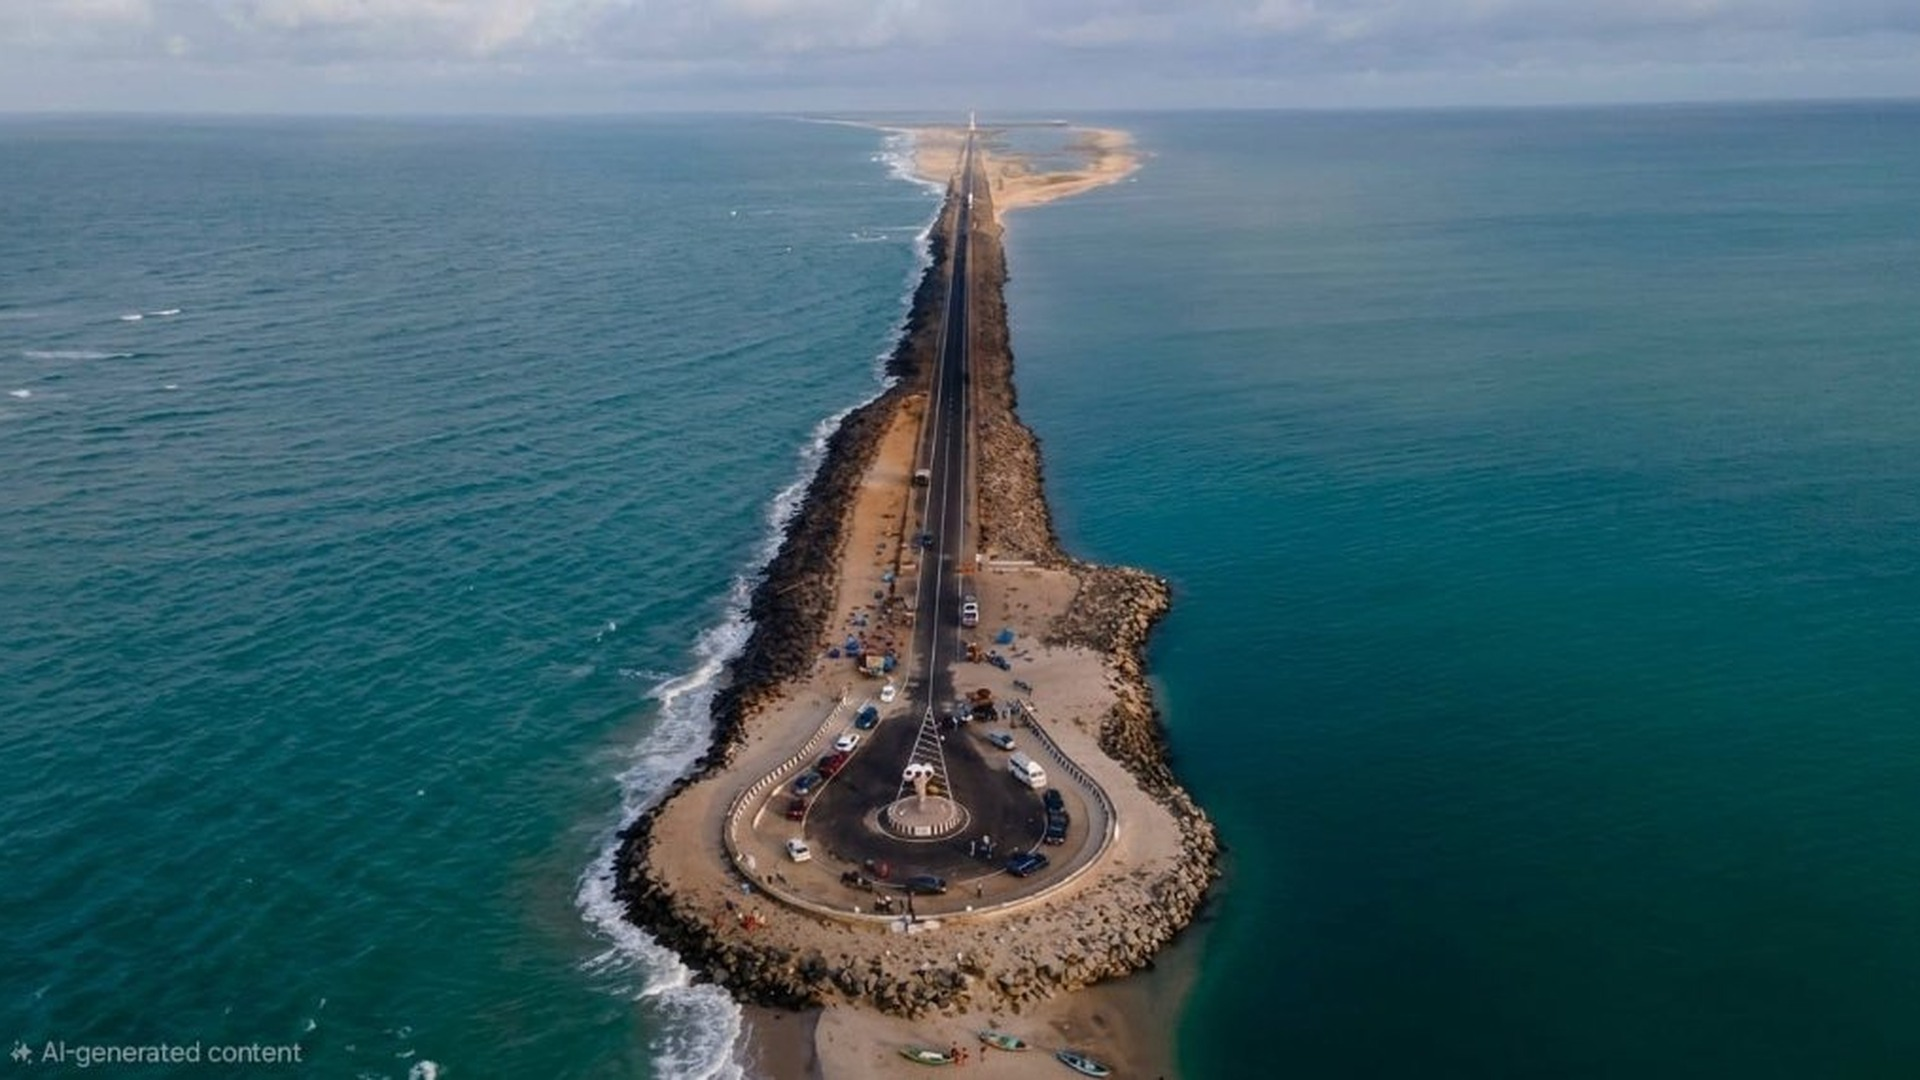
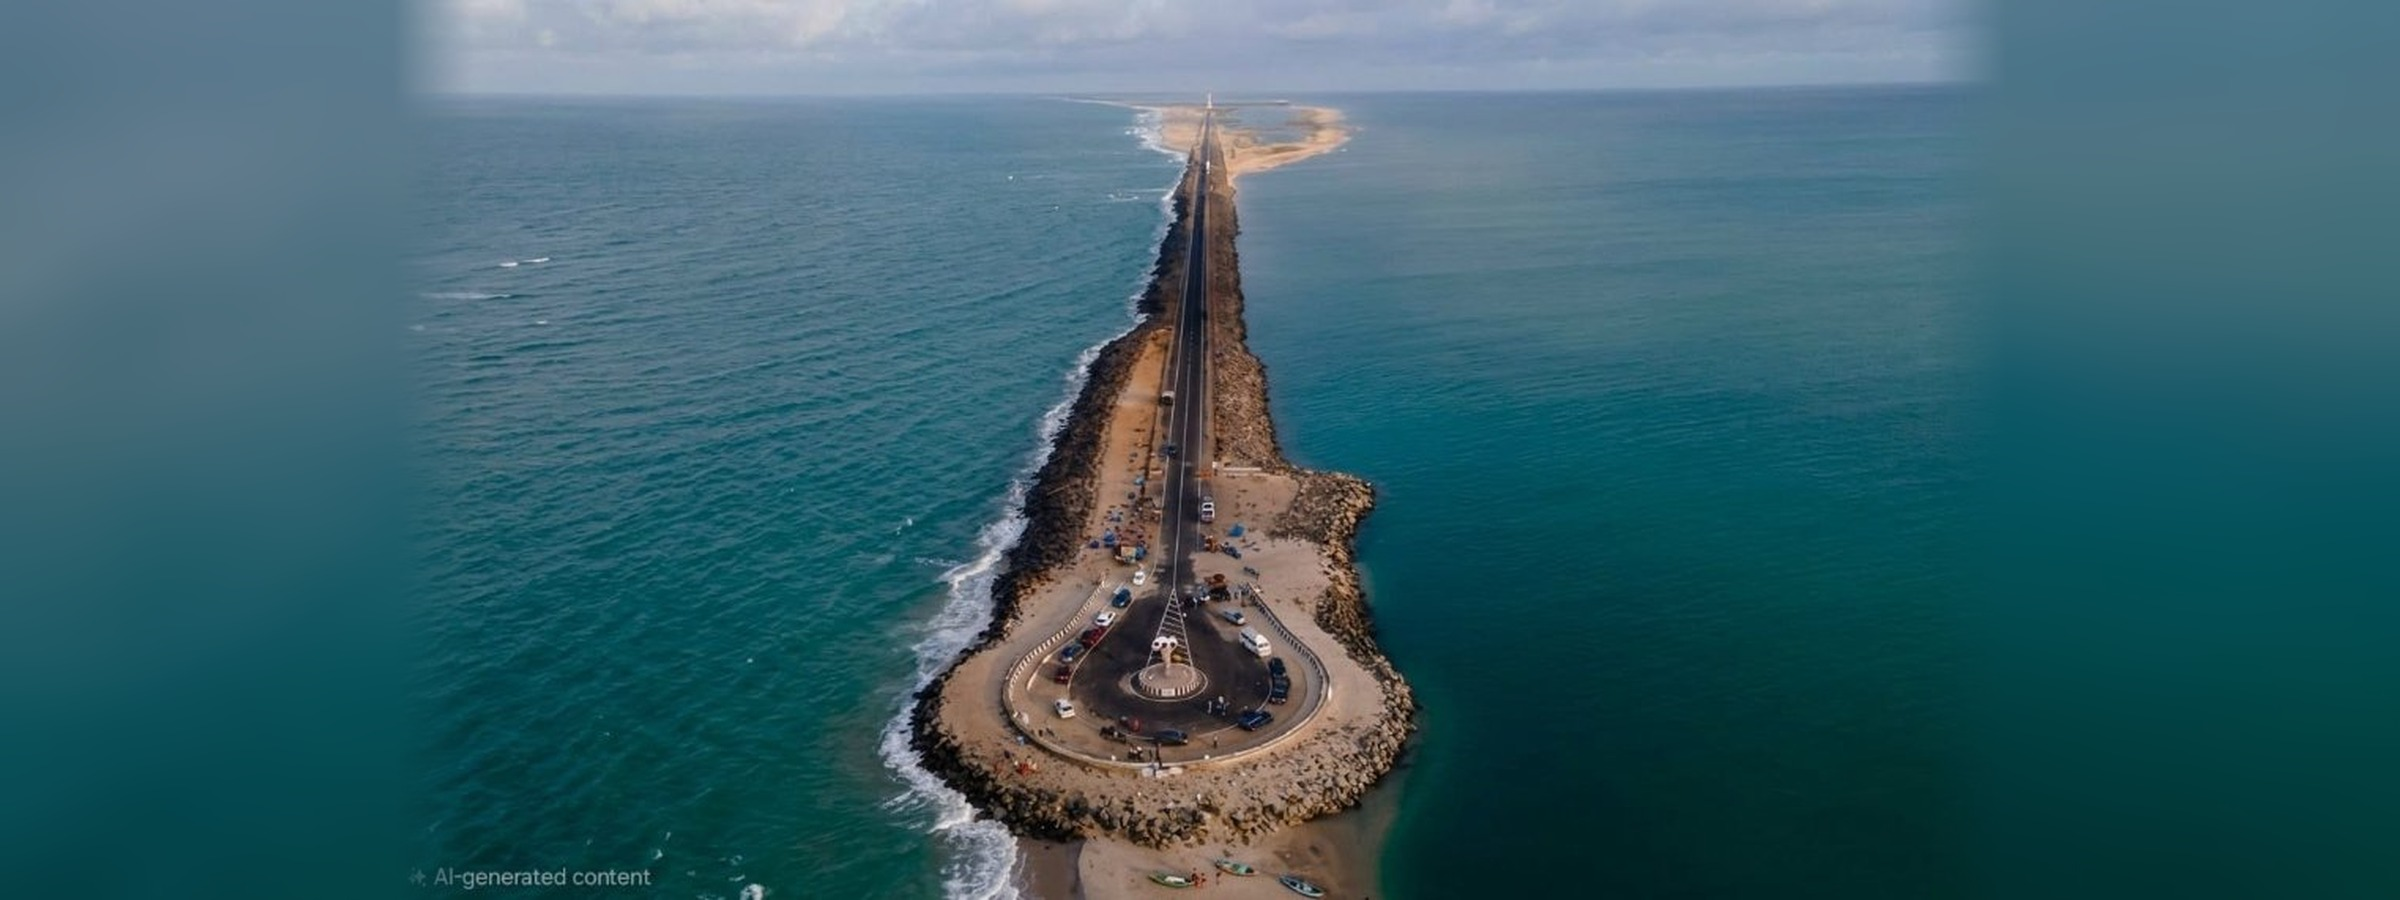
Fix hero background images zoom: convert to ultra-wide panoramic aspect ratio and remove scale zoom effect

diff --git a/src/components/Hero.jsx b/src/components/Hero.jsx
@@ -102,11 +102,11 @@ export default function Hero({
             key={HERO_BG_IMAGES[bgIndex]}
             src={HERO_BG_IMAGES[bgIndex]}
             alt="Mariya Travels Scenic Destination"
-            initial={{ opacity: 0, scale: 1.03 }}
-            animate={{ opacity: 1, scale: 1 }}
+            initial={{ opacity: 0 }}
+            animate={{ opacity: 1 }}
             exit={{ opacity: 0 }}
             transition={{ duration: 0.7, ease: "easeInOut" }}
-            className="absolute inset-0 w-full h-full object-cover"
+            className="absolute inset-0 w-full h-full object-cover object-center"
           />
         </AnimatePresence>
 
